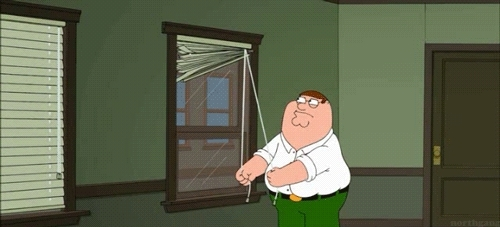
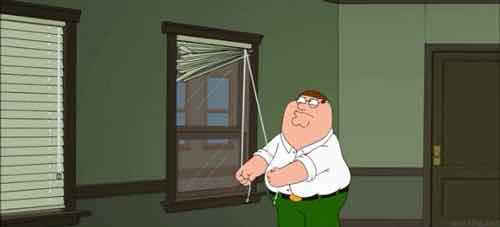
Crushed images a bit.

diff --git a/src/scripts/slides/content.js b/src/scripts/slides/content.js
@@ -328,7 +328,7 @@ hg.app(
 <img width="100%" src="images/Effective.svg">
 `,
 `
-<img width="55.1301685%" src="images/js-for-millenials.png" style="border:1px solid #000"/>
+<img width="55.1301685%" src="images/js-for-millenials.jpg" style="border:1px solid #000"/>
 `,
 `
 <h2>Packages</h2>
